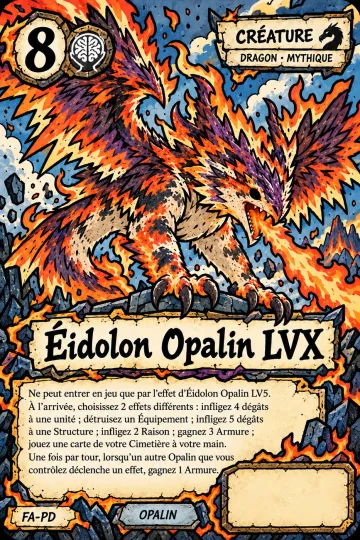
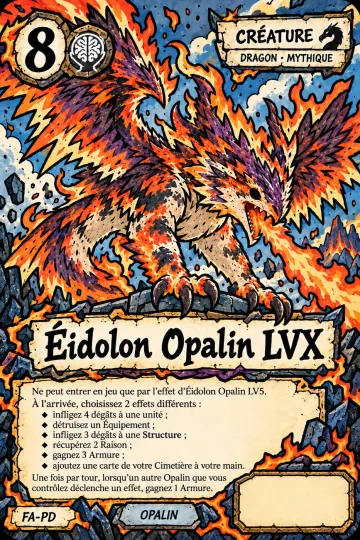
Full-Art repeintes (20/10) : Cylindre flottant, Eidolon Opalin LVX, Meraï, On avait dit tous ensemble, Vigie aux Fissures
Renommées, converties en WebP avec leurs vignettes (Styled du Cylindre
comprise). Textes peints relus : ils disent désormais ce que dit la carte
— les drapeaux `aRepeindre` tombent, les quatre Full-Art entrent dans leurs
boosters. Écarts mineurs assumés : « Éidolon » accentué (LVX) ; forme
courte validée par le propriétaire pour le Cylindre, qui reste `enAttente`
(arbitrage d'économie du Standard).

Claude-Session: https://claude.ai/code/session_01JkZDYmARpCwYyx8AaheZsi

diff --git a/game/cosmetics/artworks.ts b/game/cosmetics/artworks.ts
@@ -82,11 +82,12 @@ const ALTERNATE_ARTS: Record<string, CardAlternateArt> = {
     styled: true,
     enAttente:
       "Sa seule source est le Standard, dont la revente moyenne passerait au-dessus de 95 % du prix avec sa Styled (`obtentionCartes.test.ts`) : arbitrage d'économie en attente (19/10/2026).",
+    // Repeinte le 20/10/2026 sur la forme courte validée par le propriétaire.
     fullArt: {
       textePeint:
-        "Durée : 3 tours de table, visible pendant Houle et Tempête. La première fois à chaque tour que votre Navire devrait subir des dégâts directs d'une attaque, vous pouvez annuler ces dégâts et les rediriger sur un autre Cylindre flottant, puis détruire cette carte. Réaction cachée : lorsqu'un effet adverse ou des dégâts directs ciblent votre Navire, vous pouvez révéler Cylindre flottant : un autre Cylindre flottant que vous contrôlez gagne en puissance.",
-      aRepeindre:
-        "Texte périmé : la carte annule les dégâts pour les infliger à un permanent adverse (et au Navire adverse en Réaction cachée), pas à un « autre Cylindre flottant ».",
+        "4 tours • Houle/Tempête. À la première attaque directe au navire, vous pouvez annuler ses dégâts et les infliger au navire adverse. Détruisez ensuite ce Cylindre.",
+      ecartMineur:
+        "Forme courte validée par le propriétaire le 20/10/2026 pour cette Full-Art : même effet que le texte complet (« 4 tours » = 4 tours de table, première attaque directe, dégâts au Navire adverse, puis destruction).",
     },
   },
   "eclaireur-ebreche": {
@@ -103,10 +104,11 @@ const ALTERNATE_ARTS: Record<string, CardAlternateArt> = {
   },
   "eidolon-opalin-lvx": {
     styled: true,
+    // Repeinte le 20/10/2026 : « 3 dégâts à une Structure », « récupérez », « ajoutez » rétablis.
     fullArt: {
       textePeint:
-        "Ne peut entrer en jeu que par l'effet d'Éidolon Opalin LV5. À l'arrivée, choisissez 2 effets différents : infligez 4 dégâts à une unité ; détruisez un Équipement ; infligez 5 dégâts à une Structure ; infligez 2 Raison ; gagnez 3 Armure ; jouez une carte de votre Cimetière à votre main. Une fois par tour, lorsqu'un autre Opalin que vous contrôlez déclenche un effet, gagnez 1 Armure.",
-      aRepeindre: "« 5 dégâts à une Structure » (la carte : 3), « infligez 2 Raison » (la carte : récupérez), « jouez une carte de votre Cimetière » (la carte : ajoutez).",
+        "Ne peut entrer en jeu que par l'effet d'Éidolon Opalin LV5. À l'arrivée, choisissez 2 effets différents : infligez 4 dégâts à une unité ; détruisez un Équipement ; infligez 3 dégâts à une Structure ; récupérez 2 Raison ; gagnez 3 Armure ; ajoutez une carte de votre Cimetière à votre main. Une fois par tour, lorsqu'un autre Opalin que vous contrôlez déclenche un effet, gagnez 1 Armure.",
+      ecartMineur: "« Éidolon » peint avec un accent : le nom reste reconnaissable, le sens est le même.",
     },
   },
   "elyor-opalin-du-retour": {
@@ -169,10 +171,10 @@ const ALTERNATE_ARTS: Record<string, CardAlternateArt> = {
   },
   "merai-opalin-des-profondeurs": {
     styled: true,
+    // Repeinte le 20/10/2026 : « du dessous » rétabli.
     fullArt: {
       textePeint:
-        "À l'arrivée : regardez les 4 cartes du dessus de votre pioche. Ajoutez-en une à votre main puis mélangez les autres dans votre pioche. Une fois par tour, lorsqu'une carte est placée sous votre pioche, récupérez 1 Raison.",
-      aRepeindre: "« du dessus » de la pioche : la carte regarde les 4 cartes du DESSOUS.",
+        "À l'arrivée : regardez les 4 cartes du dessous de votre pioche. Ajoutez-en une à votre main puis mélangez les autres dans votre pioche. Une fois par tour, lorsqu'une carte est placée sous votre pioche, récupérez 1 Raison.",
     },
   },
   "moucheron-sanguin": { styled: true, fullArt: { textePeint: "Sangsue", ecartMineur: "Sans le point final : le mot-clé seul, le sens est le même." } },
@@ -184,10 +186,10 @@ const ALTERNATE_ARTS: Record<string, CardAlternateArt> = {
   },
   "on-avait-dit-tous-ensemble": {
     styled: true,
+    // Repeinte le 20/10/2026 : « qu'une carte Mort-vivant » rétabli.
     fullArt: {
       textePeint:
-        "Une fois par tour, lorsqu'un autre Mort-vivant allié est détruit ou qu'une autre Mort-vivant rejoint votre Cimetière depuis votre main ou votre pioche : infligez 1 dégât au Navire adverse.",
-      aRepeindre: "« qu'une autre Mort-vivant rejoint » : la carte dit « qu'une carte Mort-vivant rejoint » (aucune restriction « autre »).",
+        "Une fois par tour, lorsqu'un autre Mort-vivant allié est détruit ou qu'une carte Mort-vivant rejoint votre Cimetière depuis votre main ou votre pioche : infligez 1 dégât au Navire adverse.",
     },
   },
   "ptite-fesse-grand-reve": {
@@ -219,9 +221,9 @@ const ALTERNATE_ARTS: Record<string, CardAlternateArt> = {
   },
   "vigie-aux-fissures": {
     styled: true,
+    // Repeinte le 20/10/2026 : « survit à des dégâts » rétabli.
     fullArt: {
-      textePeint: "La première fois à chaque tour qu'une autre unité que vous contrôlez subit des dégâts, piochez 1 carte puis défaussez-en 1.",
-      aRepeindre: "« subit des dégâts » : la carte dit « survit à des dégâts ».",
+      textePeint: "La première fois à chaque tour qu'une autre unité que vous contrôlez survit à des dégâts, piochez 1 carte puis défaussez-en 1.",
     },
   },
 };
